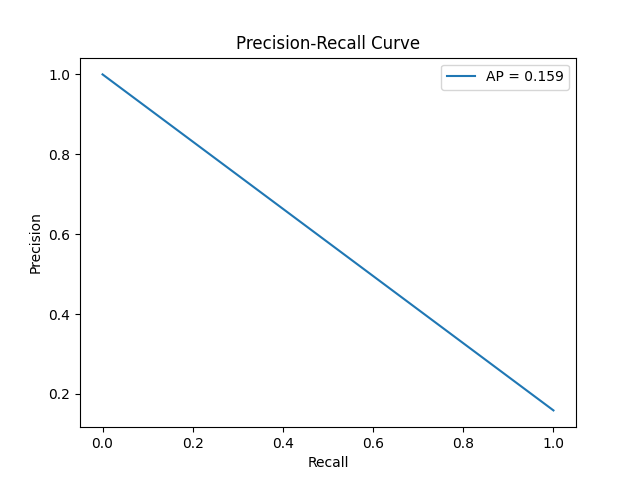
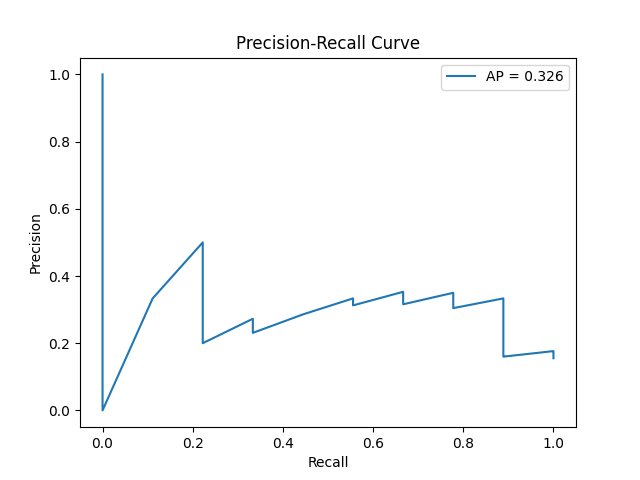
changed dataset split - model predicts now

diff --git a/Software/PyTorch/code/cnn/train.py b/Software/PyTorch/code/cnn/train.py
@@ -16,10 +16,10 @@ BATCH_SIZE = 128
 EPOCHS = 10
 LEARNING_RATE = .001 #adjust?
 
-ANNOTATIONS_FILE = "/Users/saranorouzinia/Documents/Anomaly Sound Detection/AnomalySoundDetection/Software/Perch2.0/rapport_anomalies.csv"
+ANNOTATIONS_FILE = "/Users/saranorouzinia/Documents/Anomaly Sound Detection/AnomalySoundDetection/Software/Perch2.0/V2/rapport_anomalies_optimize.csv"
 AUDIO_DIR = "/Users/saranorouzinia/Documents/Anomaly Sound Detection/audio"
 SAMPLE_RATE = 32000 #1 sec
-NUM_SAMPLES = 160000 #5 seconds
+NUM_SAMPLES = 32000 * 5 #5 seconds
 
 
 def train_one_epoch(model, data_loader, loss_fn, optimiser, device, epoch_losses):
@@ -77,8 +77,8 @@ if __name__ == "__main__":
                             device)
 
     # Split dataset
-    train_size = int(0.9 * len(usd)) #90% training data
-    test_size = len(usd) - train_size #10% test data
+    train_size = int(0.95 * len(usd)) #95% training data
+    test_size = len(usd) - train_size #5% test data
 
     train_dataset, test_dataset = random_split(usd, [train_size, test_size]) 
 
@@ -93,7 +93,7 @@ if __name__ == "__main__":
 
     #4 - train model
 
-    labels = usd.annotations.iloc[:,5].map({"RAS":0,"ANOMALIE":1}).fillna(0)
+    labels = usd.annotations.iloc[:,6].map({"RAS":0,"ANOMALIE":1}).fillna(0)
     class_counts = np.bincount(labels.astype(int))
 
     weights = 1.0 / class_counts

diff --git a/Software/PyTorch/code/cnn/inference.py b/Software/PyTorch/code/cnn/inference.py
@@ -97,7 +97,7 @@ if __name__ == "__main__":
     print(f"Weighted F1 Score: {f1:.4f}")
 
 
-    report = classification_report(targets, predictions, target_names=["RAS", "ANOMALIE"],output_dict=True,
+    report = classification_report(targets, predictions, labels=[0, 1], target_names=["RAS", "ANOMALIE"],output_dict=True,
     zero_division=0)
     df = pd.DataFrame(report).transpose()
 